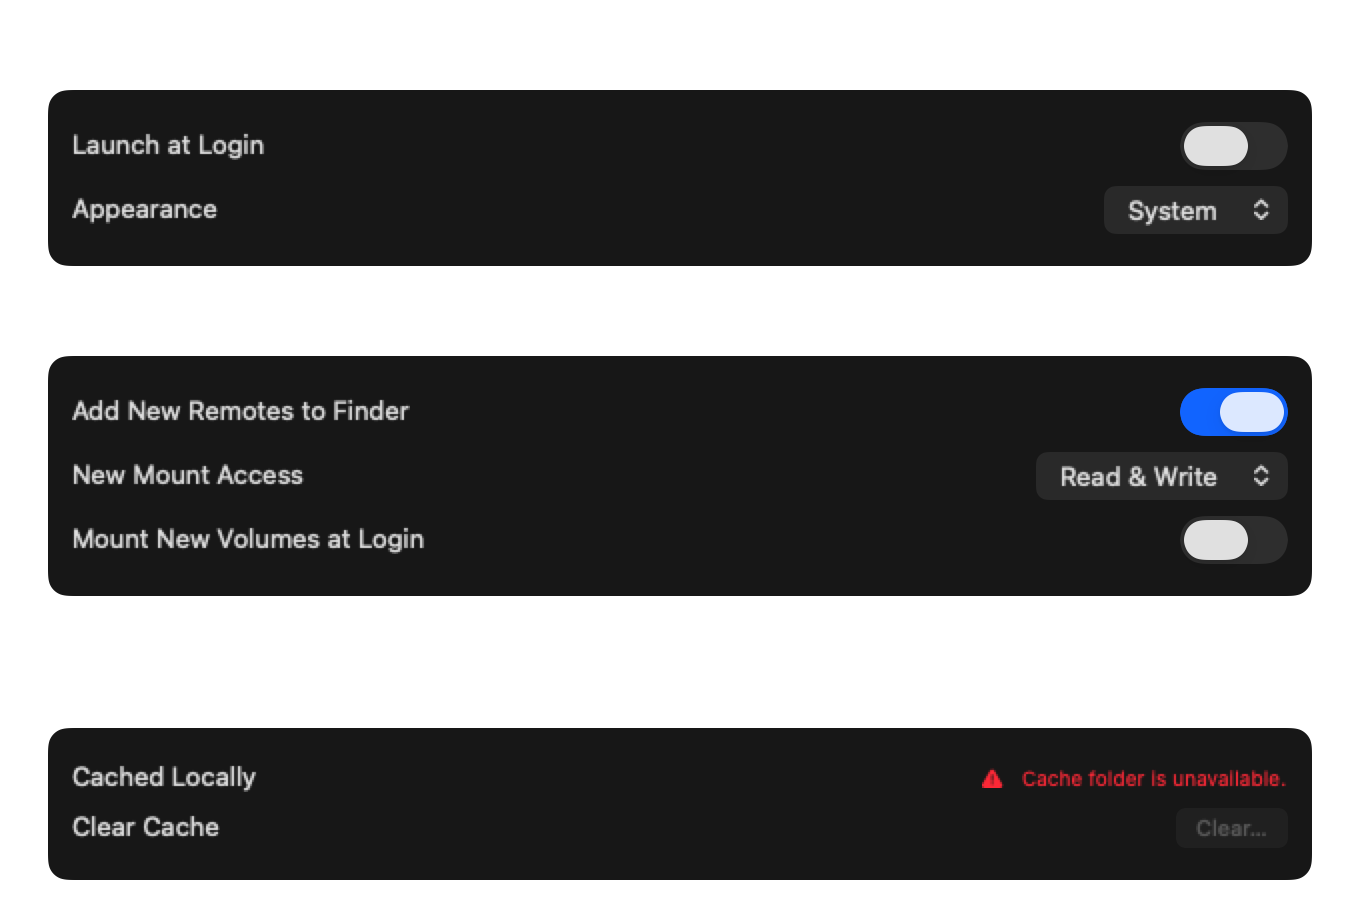
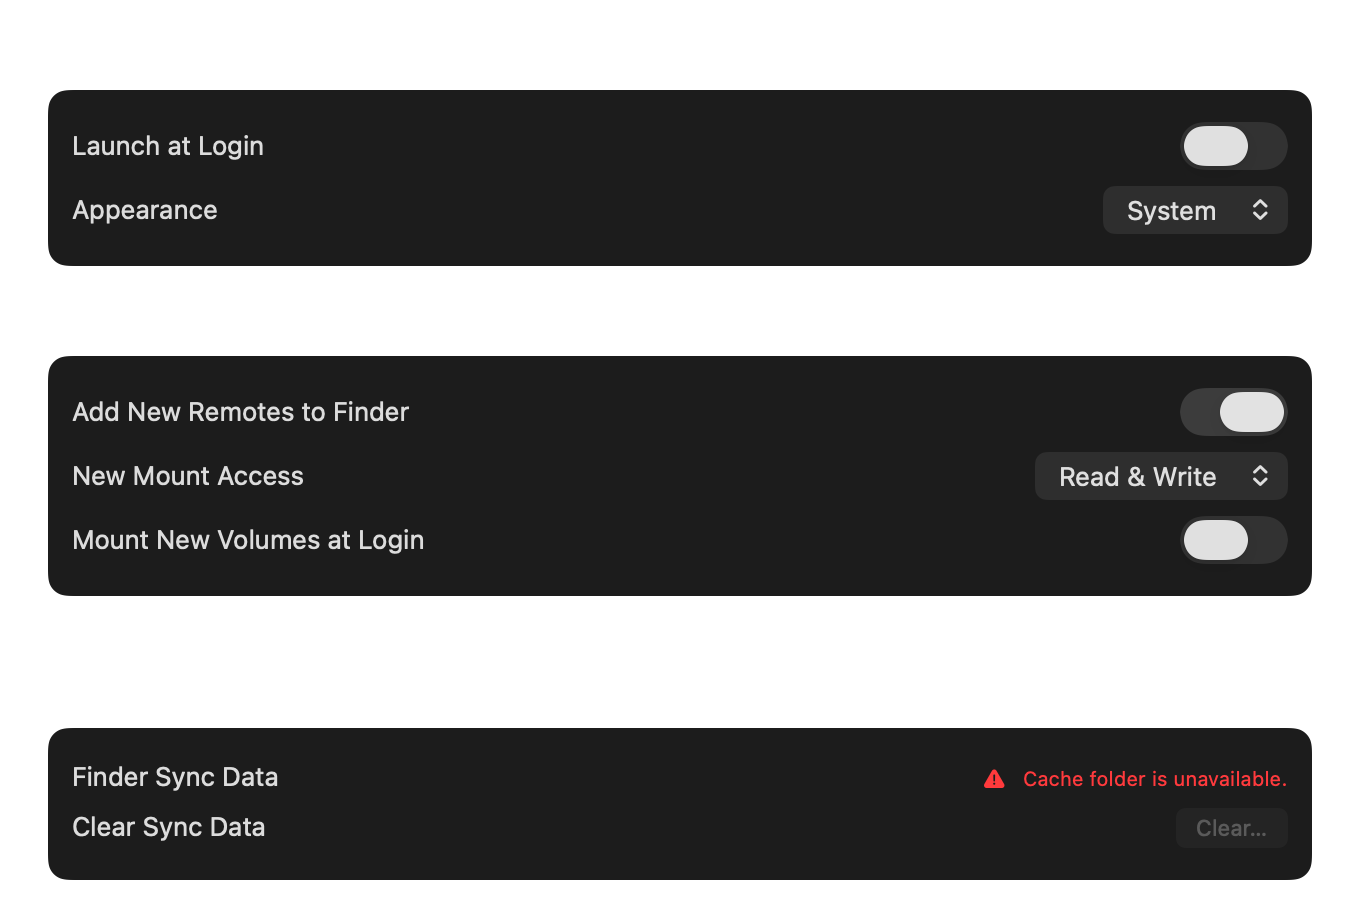
fix(settings): report only owned Finder sync data

diff --git a/Nimbus/Nimbus/Views/Settings/StorageUsageView.swift b/Nimbus/Nimbus/Views/Settings/StorageUsageView.swift
@@ -8,34 +8,38 @@ protocol LocalCacheManaging: Sendable {
     func clearCache() async throws
 }
 
-struct FileProviderCacheStore: LocalCacheManaging {
-    private let cacheURL: URL?
+/// Manages only the File Provider extension's persisted sync snapshots.
+/// Finder owns materialized cloud-file storage and must never be scanned or
+/// removed by Nimbus.
+struct FileProviderSyncCacheStore: LocalCacheManaging {
+    private let snapshotDirectory: URL?
 
-    init(cacheURL: URL? = Self.defaultCacheURL) {
-        self.cacheURL = cacheURL
+    init(snapshotDirectory: URL? = Self.defaultSnapshotDirectory) {
+        self.snapshotDirectory = snapshotDirectory
     }
 
     func cachedBytes() async throws -> Int64 {
-        guard let cacheURL else { throw CacheStoreError.unavailable }
+        guard let snapshotDirectory else { throw CacheStoreError.unavailable }
 
         return try await Task.detached(priority: .utility) {
-            try Self.cacheSize(at: cacheURL)
+            try Self.cacheSize(at: snapshotDirectory)
         }.value
     }
 
     func clearCache() async throws {
-        guard let cacheURL else { throw CacheStoreError.unavailable }
+        guard let snapshotDirectory else { throw CacheStoreError.unavailable }
 
         try await Task.detached(priority: .utility) {
             let fileManager = FileManager.default
-            guard fileManager.fileExists(atPath: cacheURL.path) else { return }
-            try fileManager.removeItem(at: cacheURL)
+            guard fileManager.fileExists(atPath: snapshotDirectory.path) else { return }
+            try fileManager.removeItem(at: snapshotDirectory)
         }.value
     }
 
-    private static var defaultCacheURL: URL? {
-        FileManager.default.urls(for: .cachesDirectory, in: .userDomainMask).first?
-            .appendingPathComponent("app.casavargas.nimbus.FileProvider")
+    private static var defaultSnapshotDirectory: URL? {
+        FileManager.default.containerURL(
+            forSecurityApplicationGroupIdentifier: "group.app.casavargas.nimbus"
+        )?.appendingPathComponent("FileProviderSync", isDirectory: true)
     }
 
     private static func cacheSize(at cacheURL: URL) throws -> Int64 {
@@ -71,9 +75,9 @@ private enum CacheStoreError: LocalizedError {
     var errorDescription: String? {
         switch self {
         case .unavailable:
-            "Nimbus could not access the local cache."
+            "Nimbus could not access its local sync data."
         case .notDirectory:
-            "Nimbus local cache is not a directory."
+            "Nimbus local sync data is not a directory."
         }
     }
 }
@@ -96,7 +100,7 @@ final class GeneralSettingsModel {
     private(set) var isClearingCache = false
 
     init(
-        cacheStore: any LocalCacheManaging = FileProviderCacheStore(),
+        cacheStore: any LocalCacheManaging = FileProviderSyncCacheStore(),
         cacheUsage: CacheUsage = .loading
     ) {
         self.cacheStore = cacheStore
@@ -115,7 +119,7 @@ final class GeneralSettingsModel {
         do {
             cacheUsage = .available(try await cacheStore.cachedBytes())
         } catch {
-            logger.error("Cache scan failed: \(error.localizedDescription, privacy: .private)")
+            logger.error("Sync data scan failed: \(error.localizedDescription, privacy: .private)")
             cacheUsage = .failed(error.localizedDescription)
         }
     }
@@ -129,8 +133,10 @@ final class GeneralSettingsModel {
             try await cacheStore.clearCache()
             await refreshCacheUsage()
         } catch {
-            logger.error("Cache clear failed: \(error.localizedDescription, privacy: .private)")
-            clearCacheError = error.localizedDescription
+            let message = error.localizedDescription
+            logger.error("Sync data reset failed: \(message, privacy: .private)")
+            cacheUsage = .failed(message)
+            clearCacheError = message
         }
     }
 }
@@ -146,38 +152,32 @@ struct StorageUsageView: View {
     var body: some View {
         FormSection(
             title: "Local Storage",
-            footer: "Cached files speed up repeated access. Clearing removes only local copies; cloud files are unaffected."
+            footer: "Nimbus stores lightweight Finder sync data locally. Finder manages materialized cloud files separately."
         ) {
-            FormRow(label: "Cached Locally", help: nil) {
+            FormRow(label: "Finder Sync Data", help: nil) {
                 cacheUsageValue
             }
-            FormRow(label: "Clear Cache", help: nil) {
+            FormRow(label: "Clear Sync Data", help: nil) {
                 Button("Clear…", role: .destructive) {
                     showingClearConfirmation = true
                 }
                 .controlSize(.small)
                 .disabled(!canClearCache || model.isClearingCache)
-                .accessibilityLabel("Clear Cache")
-            }
-            if let clearCacheError = model.clearCacheError {
-                Text(verbatim: clearCacheError)
-                    .font(DesignSystem.Typography.caption)
-                    .foregroundStyle(DesignSystem.Color.semantic.statusError)
-                    .accessibilityLabel("Clear cache error: \(clearCacheError)")
+                .accessibilityLabel("Clear Finder Sync Data")
             }
         }
         .task { await model.loadCacheUsageIfNeeded() }
         .confirmationDialog(
-            "Remove all cached files?",
+            "Remove Nimbus sync data?",
             isPresented: $showingClearConfirmation,
             titleVisibility: .visible
         ) {
-            Button("Clear Cache", role: .destructive) {
+            Button("Clear Sync Data", role: .destructive) {
                 Task { await model.clearCache() }
             }
             Button("Cancel", role: .cancel) {}
         } message: {
-            Text("Cloud files are unaffected. Files will download again when accessed.")
+            Text("Finder-managed cloud files are unaffected. Nimbus rebuilds sync data as folders are enumerated.")
         }
     }
 
@@ -187,7 +187,7 @@ struct StorageUsageView: View {
         case .loading:
             ProgressView()
                 .controlSize(.small)
-                .accessibilityLabel("Calculating cached storage")
+                .accessibilityLabel("Calculating Finder sync storage")
         case .available(let bytes):
             Text(verbatim: bytes == 0 ? "Empty" : ByteCountFormatter.string(fromByteCount: bytes, countStyle: .file))
                 .font(DesignSystem.Typography.body)
@@ -202,7 +202,7 @@ struct StorageUsageView: View {
             .font(DesignSystem.Typography.caption)
             .foregroundStyle(DesignSystem.Color.semantic.statusError)
             .frame(maxWidth: 280, alignment: .trailing)
-            .accessibilityLabel("Cache scan failed: \(error)")
+            .accessibilityLabel("Finder sync data unavailable: \(error)")
         }
     }
 

diff --git a/Nimbus/NimbusTests/GeneralSettingsViewTests.swift b/Nimbus/NimbusTests/GeneralSettingsViewTests.swift
@@ -6,6 +6,19 @@ import Testing
 @Suite("General settings", .serialized)
 @MainActor
 struct GeneralSettingsViewTests {
+    @Test func clearCacheFailureReportsErrorWithoutSuccessUsage() async {
+        let model = GeneralSettingsModel(
+            cacheStore: CacheStoreFixture(clearError: "Sync data could not be cleared."),
+            cacheUsage: .available(4_194_304)
+        )
+
+        await model.clearCache()
+
+        #expect(model.cacheUsage == .failed("Sync data could not be cleared."))
+        #expect(model.clearCacheError == "Sync data could not be cleared.")
+        #expect(!model.isClearingCache)
+    }
+
     @Test func rendersGeneralPane() throws {
         let model = GeneralSettingsModel(
             cacheStore: CacheStoreFixture(bytes: 4_194_304),
@@ -14,7 +27,8 @@ struct GeneralSettingsViewTests {
         try SnapshotHelpers.assertHostedSnapshot(
             GeneralSettingsView(model: model)
                 .environment(AppSettings(defaults: isolatedDefaults()))
-                .environment(LaunchAtLoginService()),
+                .environment(LaunchAtLoginService(refreshOnInit: false))
+                .preferredColorScheme(.dark),
             size: CGSize(width: 680, height: 450),
             named: "Settings-General"
         )
@@ -28,7 +42,8 @@ struct GeneralSettingsViewTests {
         try SnapshotHelpers.assertHostedSnapshot(
             GeneralSettingsView(model: model)
                 .environment(AppSettings(defaults: isolatedDefaults()))
-                .environment(LaunchAtLoginService()),
+                .environment(LaunchAtLoginService(refreshOnInit: false))
+                .preferredColorScheme(.dark),
             size: CGSize(width: 680, height: 450),
             named: "Settings-General-cache-error"
         )
@@ -45,15 +60,24 @@ struct GeneralSettingsViewTests {
 private struct CacheStoreFixture: LocalCacheManaging {
     let bytes: Int64?
     let error: String?
+    let clearError: String?
 
     init(bytes: Int64) {
         self.bytes = bytes
         error = nil
+        clearError = nil
     }
 
     init(error: String) {
         bytes = nil
         self.error = error
+        clearError = nil
+    }
+
+    init(clearError: String) {
+        bytes = nil
+        error = nil
+        self.clearError = clearError
     }
 
     func cachedBytes() async throws -> Int64 {
@@ -63,7 +87,11 @@ private struct CacheStoreFixture: LocalCacheManaging {
         return bytes ?? 0
     }
 
-    func clearCache() async throws {}
+    func clearCache() async throws {
+        if let clearError {
+            throw CacheStoreFixtureError(message: clearError)
+        }
+    }
 }
 
 private struct CacheStoreFixtureError: LocalizedError {

diff --git a/Nimbus/NimbusTests/Support/SnapshotHelpers.swift b/Nimbus/NimbusTests/Support/SnapshotHelpers.swift
@@ -6,6 +6,11 @@ enum SnapshotHelpers {
     /// Hamming-distance threshold for perceptual hash comparison. ~3% of 256 bits.
     static let hashTolerance = 8
 
+    /// Retained solely for hosted snapshots. Reusing one non-key window avoids
+    /// AppKit's back-to-back window setup race while keeping focus out of the
+    /// captured controls.
+    @MainActor private static var hostedWindow: NSWindow?
+
     /// Renders a SwiftUI view to a deterministic PNG `Data` blob via ImageRenderer.
     @MainActor
     static func renderPNG<V: View>(_ view: V, size: CGSize) -> Data {
@@ -22,14 +27,39 @@ enum SnapshotHelpers {
     @MainActor
     static func renderHostedPNG<V: View>(_ view: V, size: CGSize) -> Data {
         let hostingView = NSHostingView(rootView: view)
-        hostingView.frame = CGRect(origin: .zero, size: size)
-        hostingView.layoutSubtreeIfNeeded()
+        let window = hostedWindow ?? makeHostedWindow(size: size)
+        window.setContentSize(size)
+        window.contentView = hostingView
+
+        // Native SwiftUI controls finish configuring only once their hosting
+        // hierarchy is attached to and displayed by an AppKit window. Keep
+        // the window non-key so focus rings and active-control tint are not
+        // captured, then complete two deterministic display passes.
+        window.display()
+        RunLoop.main.run(until: Date(timeIntervalSinceNow: 0.05))
+        window.display()
 
         guard let bitmap = hostingView.bitmapImageRepForCachingDisplay(in: hostingView.bounds) else {
             return Data()
         }
         hostingView.cacheDisplay(in: hostingView.bounds, to: bitmap)
         return bitmap.representation(using: .png, properties: [:]) ?? Data()
+    }
+
+    @MainActor
+    private static func makeHostedWindow(size: CGSize) -> NSWindow {
+        let window = NSWindow(
+            contentRect: CGRect(origin: .zero, size: size),
+            styleMask: .borderless,
+            backing: .buffered,
+            defer: false
+        )
+        window.appearance = NSAppearance(named: .darkAqua)
+        window.backgroundColor = .black
+        window.hasShadow = false
+        window.orderFront(nil)
+        hostedWindow = window
+        return window
     }
 
     /// Computes a 256-bit perceptual hash from PNG data.

diff --git a/Nimbus/Nimbus/Services/LaunchAtLoginService.swift b/Nimbus/Nimbus/Services/LaunchAtLoginService.swift
@@ -11,8 +11,10 @@ final class LaunchAtLoginService {
 
     private let logger = Logger(subsystem: "app.casavargas.nimbus", category: "launchatlogin")
 
-    init() {
-        refresh()
+    init(refreshOnInit: Bool = true) {
+        if refreshOnInit {
+            refresh()
+        }
     }
 
     func refresh() {

diff --git a/Nimbus/Nimbus/Views/Settings/GeneralSettingsView.swift b/Nimbus/Nimbus/Views/Settings/GeneralSettingsView.swift
@@ -55,7 +55,6 @@ private struct ApplicationSettingsSection: View {
                     .accessibilityLabel("Launch at login error: \(error)")
             }
         }
-        .onAppear { launchAtLogin.refresh() }
     }
 
     private var launchAtLoginBinding: Binding<Bool> {

diff --git a/task-8-report.md b/task-8-report.md
@@ -1,0 +1,54 @@
+# Task 8 Fix Report
+
+## Local Storage Boundary
+
+The General settings pane now reports and clears only Nimbus-owned Finder sync
+metadata. The root is resolved through the app-group entitlement:
+
+`FileManager.default.containerURL(forSecurityApplicationGroupIdentifier: "group.app.casavargas.nimbus")/FileProviderSync`
+
+`SyncSnapshotStore` creates only the following descendants beneath that root:
+
+`<FileProviderSync>/<remoteName>/<sha256(containerIdentifier)>.json`
+
+Each JSON file stores a `ContainerSnapshot`: a directory listing baseline of
+item identifiers, names, types, sizes, modification times, and a sync-anchor
+version. It is safe to remove because the File Provider extension seeds or
+rebuilds the snapshot from the next enumeration. Clearing it resets local
+change-detection state only; it never removes cloud objects.
+
+Nimbus does not scan or delete Finder's system-managed materialized files.
+It also does not include the extension's temporary download staging directory
+(`FileManager.default.temporaryDirectory/app.casavargas.nimbus.FileProvider`),
+which is non-durable and is owned by the extension's lifecycle cleanup.
+
+The UI therefore calls this data "Finder Sync Data" and explains that Finder
+manages materialized cloud files separately.
+
+## Snapshot Stability
+
+`SnapshotHelpers.assertHostedSnapshot` now captures through a retained,
+non-key, borderless AppKit window with a fixed dark-Aqua appearance, black
+background, no shadow, and two display passes separated by a main-run-loop
+turn. Reusing the window prevents the second hosted capture from racing native
+control setup while avoiding key-window focus and active-control tint.
+
+The General fixtures use a fixed dark appearance and a launch-at-login service
+whose initial system refresh is disabled. The production service still refreshes
+by default; the redundant view `onAppear` refresh was removed.
+
+Both `Settings-General.png` and `Settings-General-cache-error.png` were
+re-recorded and visually inspected. The cache-error fixture retains the
+Application and Finder sections, their toggles and pickers, and the Local
+Storage error state.
+
+## Regression Coverage
+
+`clearCacheFailureReportsErrorWithoutSuccessUsage` verifies that a throwing
+sync-data clear transitions usage to `.failed`, preserves the error message,
+and ends the clearing state instead of reporting stale successful usage.
+
+## Verification
+
+Two consecutive non-record focused runs passed with all three General settings
+tests passing in each run.
